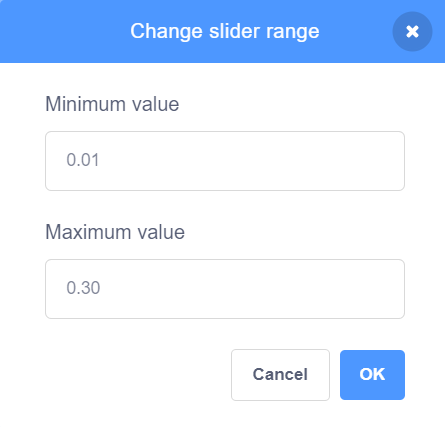
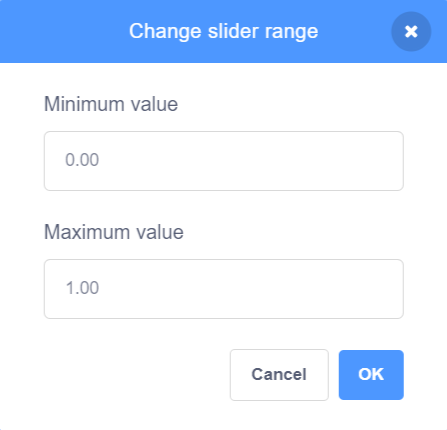
Updated with better examples

diff --git a/en/step_7.md b/en/step_7.md
@@ -153,7 +153,7 @@ title: Control move or turn speed with a variable
 
 ---
 
-**Ladybug from above**: [See inside](https://scratch.mit.edu/projects/447139076/editor){:target="_blank"}
+**Ladybug on a wall**: [See inside](https://scratch.mit.edu/projects/447139076/editor){:target="_blank"}
 
 <div class="scratch-preview">
   <iframe allowtransparency="true" width="485" height="402" src="https://scratch.mit.edu/projects/embed/447139076/?autostart=false" frameborder="0"></iframe>
@@ -179,10 +179,10 @@ title: Change the delay in a wait block
 
 ---
 
-**Dance delay**: [See inside](https://scratch.mit.edu/projects/447752917/editor){:target="_blank"}
+**Skeleton dance**: [See inside](https://scratch.mit.edu/projects/449629487/editor){:target="_blank"}
 
 <div class="scratch-preview">
-  <iframe allowtransparency="true" width="485" height="402" src="https://scratch.mit.edu/projects/embed/447752917/?autostart=false" frameborder="0"></iframe>
+  <iframe allowtransparency="true" width="485" height="402" src="https://scratch.mit.edu/projects/embed/449629487/?autostart=false" frameborder="0"></iframe>
 </div>
 
 Use a `delay`{:class="block3variables"} variable as the input to a `wait`{:class="block3motion"} block:
@@ -196,11 +196,9 @@ next costume
 
 A delay of more than one second is quite a long time. If you include a decimal number in the range of a slider then you can change the value 100th of a second at a time. 
 
-A range of 0 to 1.0 would let you choose value between 0 seconds (no delay) and 1 second.
+A range of 0.0 to 1.0 allows you to choose a delay between 0 seconds (no delay) and 1 second.
 
-This example lets you choose values between one hundredth of a second (0.01) and 3 tenths of a second (0.30). 
-
-![Decimal range](images/decimal-range.png)
+![Decimal range](images/decimal-delay.png)
 
 Try changing the numbers to get the maximum and minumum that you want users to be able to use in your project.
 
